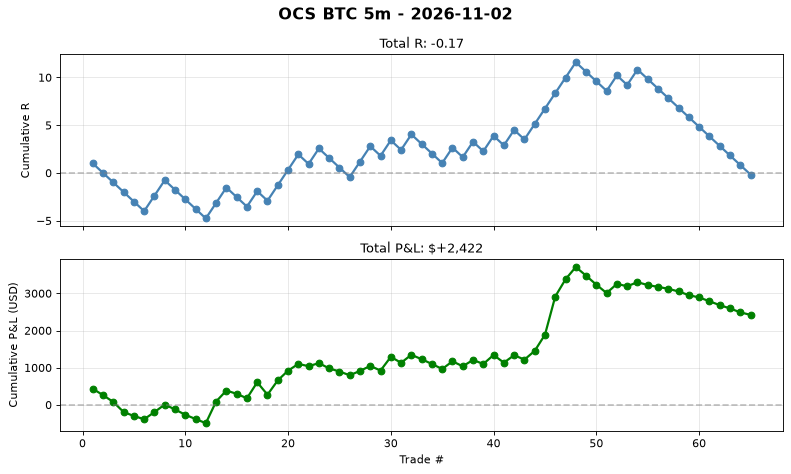
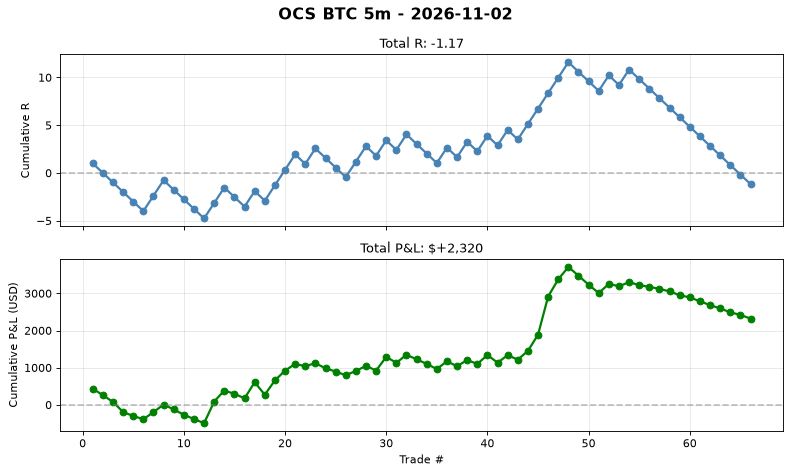
auto(ocs-btc): signal log 2026-11-01T23:48 trades=66

diff --git a/automation/reports/ocs_btc_5m/daily/2026-11-02.md b/automation/reports/ocs_btc_5m/daily/2026-11-02.md
@@ -2,4 +2,4 @@
 
 **No trades today.**
 
-Cumulative stats: 65 trades | WR 38.5% | avg R -0.003
+Cumulative stats: 66 trades | WR 37.9% | avg R -0.018
